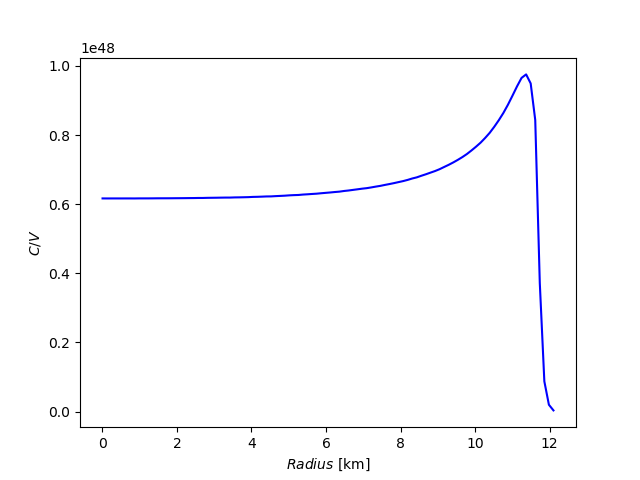
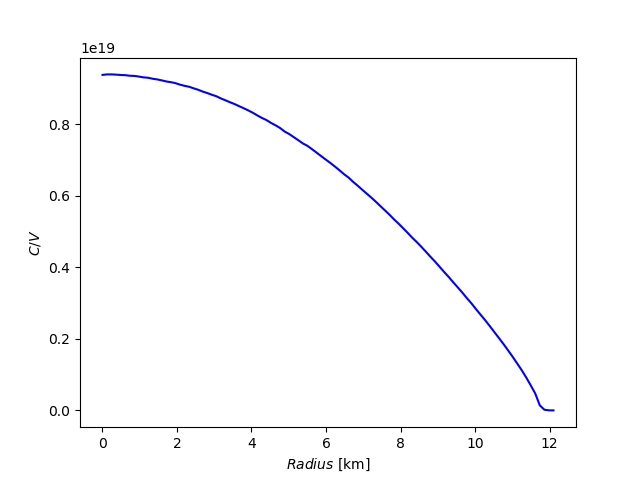
ok

diff --git a/cap_rate/MC_cap.c b/cap_rate/MC_cap.c
@@ -52,7 +52,7 @@ double OmegaIntegral(double dm, double muFn, double vmax){
 
   gsl_monte_function G = { &OmegaIntegrand, 3, &params }; // {function, dimension, params}
 
-  size_t calls = 500000;
+  size_t calls = 1000000;
 
   gsl_rng_env_setup ();
 
@@ -82,9 +82,9 @@ double OmegaIntegral(double dm, double muFn, double vmax){
 
      gsl_monte_vegas_integrate (&G, xl, xu, 3, 10000, r, s,
                                 &res, &err);
-     // display_results ("vegas warm-up", res, err);
+     display_results ("vegas warm-up", res, err);
      //
-     // printf ("converging...\n");
+     printf ("converging...\n");
 
      do
        {
@@ -109,6 +109,7 @@ double OmegaIntegral(double dm, double muFn, double vmax){
   return res;
   }
 }
+
 
 //=========================================================
 
@@ -233,50 +234,42 @@ int main ()
     int range = 50;
     double mass_vals[range];
 
-    logspace(-6, 1, range, mass_vals);
+    logspace(0, 15, range, mass_vals);
 
-    double test_mass = 1.e3;
+    double test_mass = 1.e9;
 
-    // FILE *outfile = fopen("complete_caprate.dat", "w");
+    FILE *outfile = fopen("complete_caprate.dat", "w");
     // FILE *outfile3 = fopen("vegas_full.dat", "w");
-    // for (j = 0; j < range; j++){
+    for (j = 0; j < range; j++){
 
       // printf("\n%e0.6E\n\n", mass_vals[j]);
 
-      FILE *outfile = fopen("cap_rate_rad.dat", "w");
+      // FILE *outfile = fopen("cap_rate_rad.dat", "w");
 
       for (i = 0; i < Nrpts; i++){
 
         radint[i] = rmin + ((double) i)*(rmax-rmin)/(Nrpts-1);
-        double nd = nd_interp(radint[i], npts) * 1e45; // m^-3
-        double muFn = muFn_interp(radint[i], npts);
+        double nd = nd_interp(radint[i], npts) ; // m^-3
+        double muFn = muFn_interp(radint[i], npts)*1e9;
         double vmax = esc_vel_full(radint[i],  npts);
-        double ndfree = pow(2.*NM*muFn,1.5)/3./M_PI/M_PI/hbarc/hbarc/hbarc * 1e45; // m^-3
+        double ndfree = pow(2.*NM*muFn,1.5)/3./M_PI/M_PI/hbarc/hbarc/hbarc; // m^-3
 
-	      dCdr[i] = prefactors(test_mass)*constCS() * OmegaIntegral( test_mass, muFn, vmax) * nd*nd/ndfree* radint[i] * radint[i]*SOL*SOL*1.e54 ;
+	      dCdr[i] = prefactors(test_mass)*constCS() * OmegaIntegral( test_mass, muFn, vmax) * (nd*nd/ndfree)*SOL*SOL*1.e54*radint[i]*radint[i] ;
 
-        fprintf(outfile,"%0.10E\t%.10E\t%.10E\n",
-               radint[i], dCdr[i] , nd*nd/ndfree);
+        // fprintf(outfile,"%0.10E\t%.10E\t%.10E\n", radint[i], dCdr[i] , nd*nd/ndfree);
       }
-      fclose(outfile);
+      // fclose(outfile);
 
-      // cap_full[j] = capture_rate(rmin, rmax);
-      // fprintf(outfile3, "%0.10e\t%0.10e\n", mass_vals[j], cap_full[j]);
+      cap_full[j] = capture_rate(rmin, rmax);
+      fprintf(outfile3, "%0.10e\t%0.10e\n", mass_vals[j], cap_full[j]);
 
-    // FILE *outfile2 = fopen("cap_interp_test.dat", "w");
 
-    // for (i = 0; i < Nrpts; i++){
-    //   fprintf(outfile2,"%0.10E\t%.10E\n",
-    //          radint[i], dCdr_interp(radint[i]));
-    // }
-    // fclose(outfile2);
+    for (i = 0; i<Nrpts; i++){
+	dCdr[i] = 0;
+   	  }
+    }
 
-    // for (i = 0; i<Nrpts; i++){
-	// dCdr[i] = 0;
-   	 //  }
-    // }
-
-  //  fclose(outfile3);
+   fclose(outfile);
 
     end = clock();
   	total_time = ((double) (end - start)) / CLOCKS_PER_SEC;

diff --git a/cap_rate/cap_funcs.c b/cap_rate/cap_funcs.c
@@ -105,7 +105,7 @@ double velsqr(double s, double t, double vel, double dm){
 //=========================================================
 
 double energy(double s, double t, double vel, double dm){
-	return 0.5 * NM * velsqr(s, t, vel, dm);
+	return (0.5 * NM * velsqr(s, t, vel, dm));
 }
 
 //=========================================================
@@ -176,9 +176,19 @@ double OmegaIntegrand(double *x, size_t dim, void *p){
     double chempot = (params->muF);
     double escvel  = (params->escvel);
 
+		double sp = x[1];
+		double tp = x[2];
 
-    return x[0] * x[2] * heaviside_product(x[1], x[2], escvel, x[0]) *
-		 FD(x[1], x[2], escvel, chempot, dm) * (1.0 - FD(x[1], x[2], x[0], chempot, dm));
+
+		// double sp = x[1]/(1-x[1]);
+		// double tp = x[2]/(1-x[2]);
+		//
+		// double jacobian = 1./((1. - x[1])*(1. - x[1])*(1. - x[2])*(1. - x[2]));
+
+
+
+    return x[0] * tp * heaviside_product(sp, tp, escvel, x[0]) *
+		 FD(sp, tp, escvel, chempot, dm) * (1.0 - FD(sp, tp, x[0], chempot, dm));
 
 }
 

diff --git a/cap_rate/constants.h b/cap_rate/constants.h
@@ -1,10 +1,10 @@
 #define SOL 299792458.0 // speed of light in vacuum m/s
-#define hbarc 0.1973269788/1e3  // GeV fm
+#define hbarc (0.1973269788/1e3)  // GeV fm
 
-#define NM 0.939    //neutron mass in GeV
+#define NM (0.939*1e9)    //neutron mass in GeV
 #define Grav 6.67408E-11
 #define ESCAPE_VEL sqrt((2 * Grav * 1.4 * 2E30) / (10E3))	//NS escape velocity in m/s. Need to make into function of radius
-#define TEMP ((1E5 * 1E-9) / (1.16E4))	//NS temp in GeV
+#define TEMP 9	//NS temp in GeV
 #define FERMI_ENERGY 0.085 // in GeV (will need to make a variable)
 #define VELDISP 270e3 //DM velocity dispersion for MB dist
 #define NSVEL 200e3 // NS velocity in galactic frame

diff --git a/therm/all_plots.py b/therm/all_plots.py
@@ -135,7 +135,7 @@ def make_plot_cross_section():
     ax1.text(1e-1, 5e-47, r'$G[\bar{\chi}\gamma^5\chi][\bar{\psi}\psi]$', fontsize=30)
     ax1.text(0.5e-1, 5e-54, r'Bertoni ($G[\bar{\chi}\chi][\bar{\psi}\psi]$)', fontsize=30)
 
-    plt.savefig('all.png')
+    plt.savefig('all.pdf')
 
 
 make_plot_cross_section()
